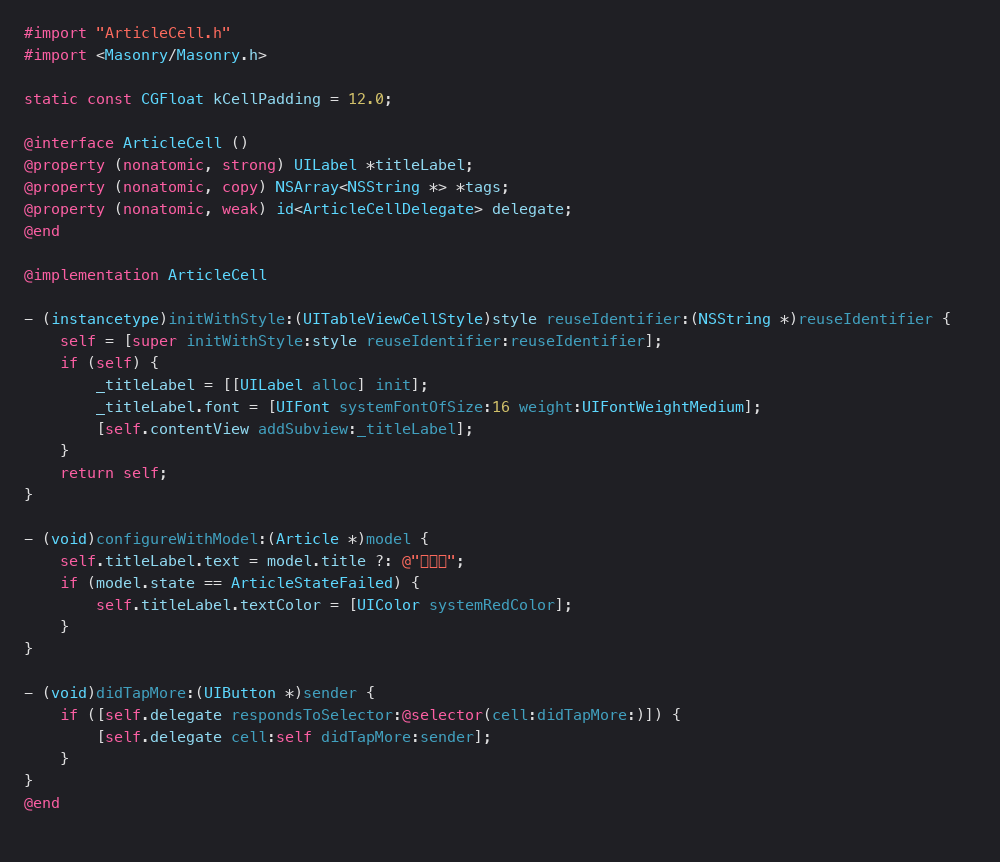
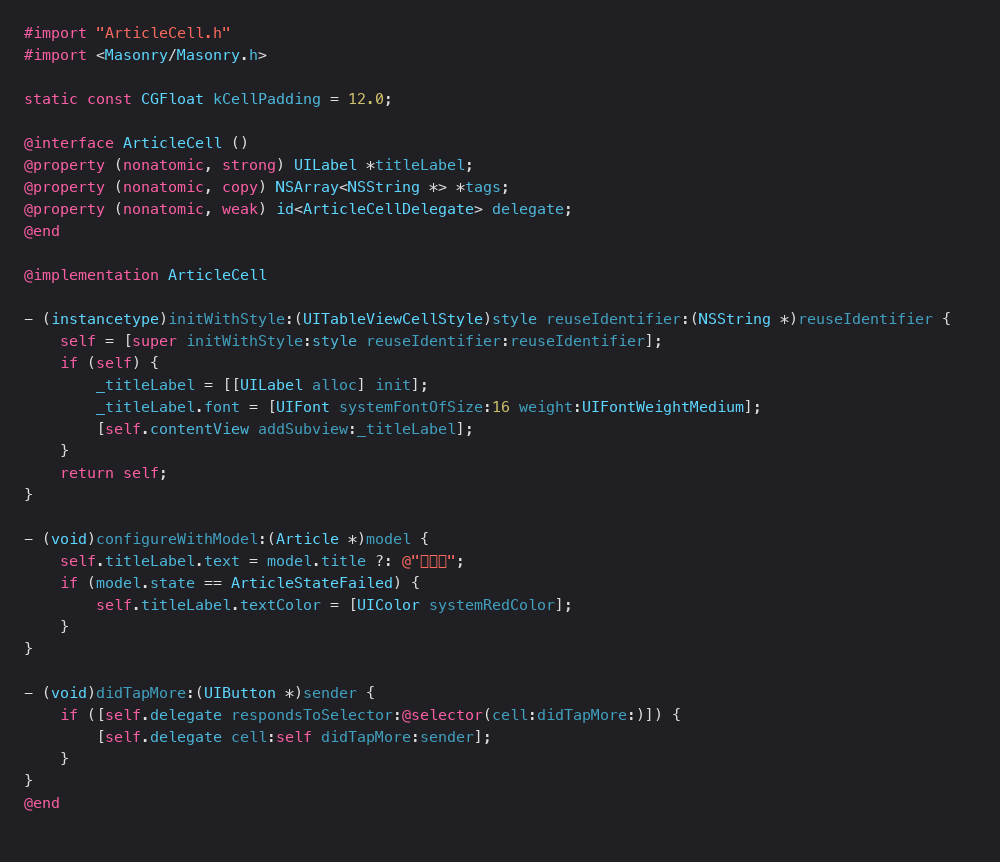
highlight: 变量色改为类型色与方法色混合，避免与正文同色

diff --git a/highlight/lib/client.js b/highlight/lib/client.js
@@ -34,12 +34,12 @@ window.__ModuleLoader__.load({
 		// 因此主题换色时这里自动跟随，不需要二次映射。
 		// 语义分层对齐 Xcode：关键字粉、类型浅蓝、方法/选择器青、变量蓝灰、字符串红、
 		// 数字土黄、注释灰。shiki 只有 9 个 token 变量、没有“变量”槽，变量色由
-		// 类型色与正文色混合而来（color-mix 在主题里随深浅自动适配）。
+		// 类型色与方法色混合而来（介于青与蓝之间，深浅主题都稳，不依赖背景）。
 		var C = {
 			keyword: "var(--shiki-token-keyword)",
 			type: "var(--shiki-token-parameter)",
 			fn: "var(--shiki-token-function)",
-			varName: "color-mix(in oklab, var(--shiki-token-parameter) 60%, var(--shiki-foreground) 40%)",
+			varName: "color-mix(in oklab, var(--shiki-token-parameter) 45%, var(--shiki-token-function) 55%)",
 			constant: "var(--shiki-token-constant)",
 			string: "var(--shiki-token-string)",
 			comment: "var(--shiki-token-comment)",
